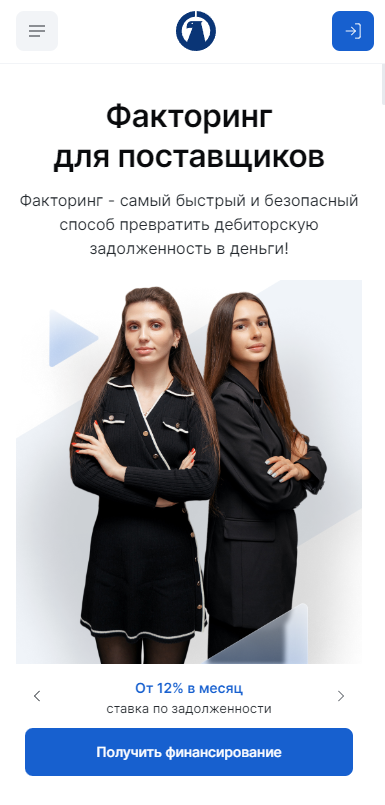
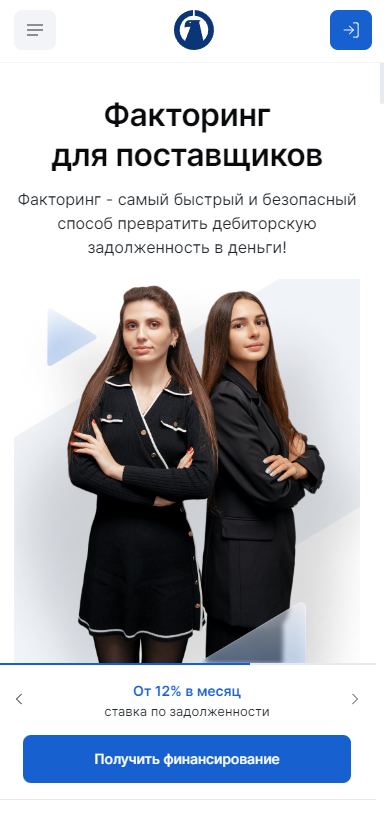
feat: add text.slider progress bar, fin slider

diff --git a/src/app/public/pages/landing/landing.component.html b/src/app/public/pages/landing/landing.component.html
@@ -6,7 +6,7 @@
 				Факторинг <br />
 				для поставщиков
 			</h1>
-			<mib-spacing type="xs"></mib-spacing>
+			<mib-spacing type="x"></mib-spacing>
 			<p class="text text_xl c-bti-secondary">
 				Факторинг - самый быстрый и безопасный способ превратить дебиторскую
 				задолженность в деньги!
@@ -21,15 +21,14 @@
 		<div class="img-wrap flex flex_grow">
 			<img src="./assets/images/staff/mib-staff-1.png" alt="staff" />
 		</div>
-		<div class="flex flex_column mobile-btn">
-			<mib-spacing type="xs"></mib-spacing>
-			<mib-swipe-text-slider></mib-swipe-text-slider>
-			<mib-spacing type="xs"></mib-spacing>
-			<div class="flex flex_justify-center">
-				<mib-button size="l" (press)="getFunding()" type="filled-primary">
-					Получить финансирование
-				</mib-button>
-			</div>
+	</div>
+	<div class="flex gap-16 flex_column mobile-btn">
+		<mib-swipe-text-slider></mib-swipe-text-slider>
+		<mib-spacing type="xs"></mib-spacing>
+		<div class="flex flex_justify-center">
+			<mib-button size="l" (press)="getFunding()" type="filled-primary">
+				Получить финансирование
+			</mib-button>
 		</div>
 	</div>
 	<div class="flex lineal">

diff --git a/src/app/public/pages/landing/landing.component.scss b/src/app/public/pages/landing/landing.component.scss
@@ -32,10 +32,15 @@
 		}
 
 		& .mobile-btn {
+			padding: 16px 0;
 			display: flex;
+			border-bottom: 1px solid var(--wgr-tertiary);
 			& mib-button[size='l'] {
 				width: 100%;
 				max-width: 328px;
+			}
+			& > div {
+				padding: 0 16px;
 			}
 		}
 
@@ -46,7 +51,7 @@
 			text-align: center;
 		}
 
-		& mib-spacing[type='xs'] {
+		& mib-spacing[type='x'] {
 			height: 12px;
 		}
 

diff --git a/src/app/public/components/swipe-text-slider/swipe-text-slider.component.scss b/src/app/public/components/swipe-text-slider/swipe-text-slider.component.scss
@@ -2,6 +2,25 @@
 	user-select: none;
 }
 
+.text-slider {
+	position: relative;
+}
+
 #textSlider {
 	touch-action: pan-y;
+}
+
+.slider-progress {
+	position: absolute;
+	width: 100%;
+	height: 2px;
+	top: -16px;
+	background-color: var(--wgr-tertiary);
+	overflow: hidden;
+}
+
+.progress-bar {
+	height: 100%;
+	background-color: var(--mc-default);
+	transition: width 0.3s ease 0s;
 }

diff --git a/src/app/public/components/swipe-text-slider/swipe-text-slider.component.ts b/src/app/public/components/swipe-text-slider/swipe-text-slider.component.ts
@@ -34,4 +34,8 @@ export class SwipeTextSliderComponent implements AfterViewInit {
 		hammer.on('swipeleft', () => this.prev())
 		hammer.on('swiperight', () => this.next())
 	}
+
+	getProgressWidth(): string {
+		return ((this.currentIdx + 1) / this.sliderTextData.length) * 100 + '%'
+	}
 }

diff --git a/src/app/public/components/swipe-text-slider/swipe-text-slider.component.html b/src/app/public/components/swipe-text-slider/swipe-text-slider.component.html
@@ -1,4 +1,7 @@
-<div #textSlider class="flex">
+<div #textSlider class="flex text-slider">
+	<div class="flex slider-progress">
+		<div class="progress-bar" [style.width]="getProgressWidth()"></div>
+	</div>
 	<mib-button
 		[disabled]="currentIdx === 0"
 		(press)="prev()"
